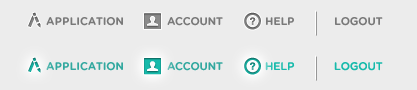
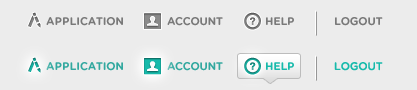
help work

Changed region(s): [[0.6235, 0.6889, 0.717, 0.7778], [0.5612, 0.8444, 0.717, 0.9333], [0.5612, 0.5778, 0.717, 0.6222]]

diff --git a/nextroom/media/service/css/nextroom.css b/nextroom/media/service/css/nextroom.css
@@ -35,7 +35,8 @@ h3 { font-size: 12px; }
 
 [unselectable=on] { -moz-user-select: none; -khtml-user-select: none; user-select: none; }
 
-input[type=submit] {
+input[type=submit],
+input[type=button] {
     background: #a9a9a9 url(images/submit_button_bg.png) 0 0 repeat-x;
     border: 1px solid #848484;
     border-radius: 5px;
@@ -72,6 +73,11 @@ input.cancel {
     color: #595959;
     text-decoration: underline;
     font-size: 11px;
+    text-shadow: 0px 0px 0px #717171;
+    -moz-box-shadow: 0px 0px 0px #888;
+    -webkit-box-shadow: 0px 0px 0px #888;
+    box-shadow: 0px 0px 0px #888;
+    border-radius: 0;
 }
 
 form span.input {
@@ -623,19 +629,65 @@ form h3 {
 
 #help {
     position: absolute;
-    top: 20px;
-    right: 30px;
-    width: 300px;
-    height: 200px;
-    background-color: #eee;
+    top:0;
+    left: 0;
+    width: 100%;
+    height: 100%;
+    background: rgba(255,255,255,0);
     display: none;
+}
+#help #help_box {
+    position: absolute;
+    top: 10px;
+    right: 116px;
+    width: 318px;
+    height: 210px;
+    background: #dfdfdf url(images/help_bg.png) repeat-x 0 0;
     border: 1px solid #c7c7c7;
     border-radius: 5px;
-    -moz-box-shadow: 0px 10px 5px rgba(0, 0, 0, 0.5);
-    -webkit-box-shadow: 0px 10px 5px rgba(0, 0, 0, 0.5);
-    box-shadow: 0px 10px 5px rgba(0, 0, 0, 0.5);
 }
 
+#help #help_box h2 {
+    text-indent: -9999px;
+    background: url(images/h2_NextRoom_help.png) 0 0 no-repeat;
+    width: 100%;
+    height: 39px;
+    margin: 24px 0 0 24px
+}
+#help #help_box p {
+    font-size: 11px;
+    color: #828282;
+    margin: 10px 24px 0;; 
+}
+#help #help_box .buttons {
+    background: url(images/help_close_bg.png) 0 0 repeat-x;
+    width: 100%;
+    height: 44px;
+    border: 1px solid #049b85;
+    border-top: 0;
+    position: absolute;
+    left: -1px;
+    bottom: -1px;
+    -webkit-border-bottom-right-radius: 5px;
+    -webkit-border-bottom-left-radius: 5px;
+    -moz-border-radius-bottomright: 5px;
+    -moz-border-radius-bottomleft: 5px;
+    border-bottom-right-radius: 5px;
+    border-bottom-left-radius: 5px;
+}
+#help #help_box .buttons input {
+    font-size: 11px;
+    position: absolute;
+    right: 15px;
+    bottom: 10px;
+    -moz-box-shadow: 0px 1px 3px #119d92;
+    -webkit-box-shadow: 0px 1px 3px #119d92;
+    box-shadow: 0px 1px 3px #119d92;
+}
+
+body.help div[role='main'] {
+    opacity: 0.3;
+}
 
 
 

diff --git a/nextroom/templates/service/admin/base.html b/nextroom/templates/service/admin/base.html
@@ -207,17 +207,19 @@
             </div> <!-- role="main" -->
 
             <div id="help">
-	      <h2>NextRoom Help</h2>
+                <div id="help_box">
+                  <h2>NextRoom Help</h2>
 
-	      <p>Phasellus tincidunt, sem non malesuada bibendum, arcu
-	      quam tempor elit, et lacinia orci orci id lectus. Donec
-	      suscipit, eros eget dignissim dignissim, nisl odio
-	      dapibus urna, sit amet sodales sem dolor at justo.</p>
+                  <p>Phasellus tincidunt, sem non malesuada bibendum, arcu
+                  quam tempor elit, et lacinia orci orci id lectus. Donec
+                  suscipit, eros eget dignissim dignissim, nisl odio
+                  dapibus urna, sit amet sodales sem dolor at justo.</p>
 
-	      <div class="buttons">
-		<input id="close-help" type="button" value="Close" />
-	      </div>
-	    </div>
+                  <div class="buttons">
+                    <input id="close-help" type="button" value="Close" />
+                  </div>
+                </div>
+            </div>
 
 
             <div id="template">
